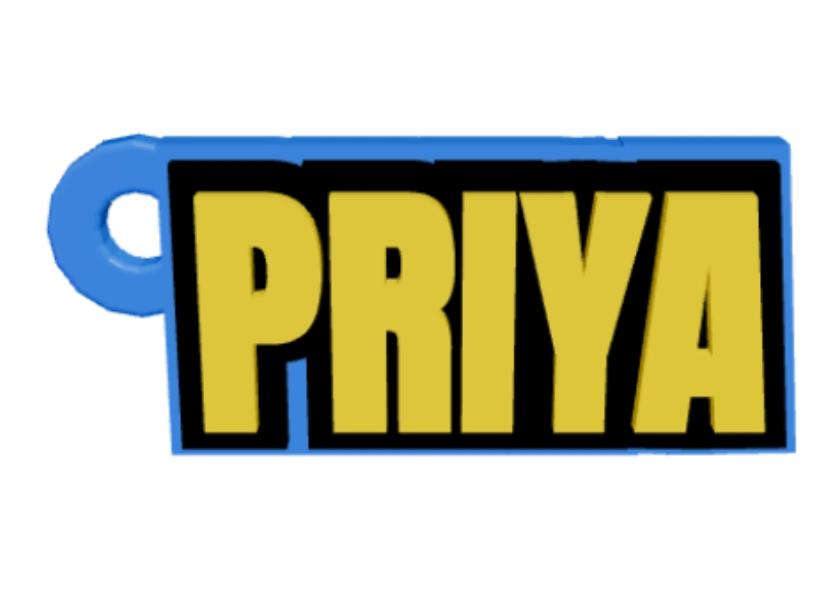
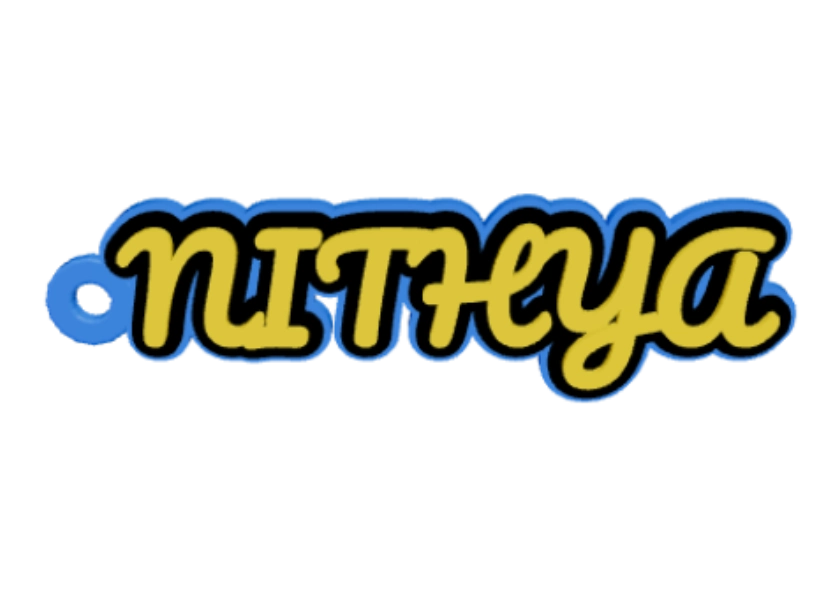
fix(home): vary reels and animate word art

diff --git a/kiosk/public/js/classic-reel-renderer.js b/kiosk/public/js/classic-reel-renderer.js
@@ -10,11 +10,32 @@ const PRODUCT_CONFIGS = Object.freeze({
         font: 'Anton',
         fontFile: 'Fonts/Anton-Regular.ttf',
         layers: '3L',
-        params: { ringPosition: 'left', ring: { anchor: 'top' }, showFDMTexture: false },
+        params: { ringPosition: 'left', ring: { anchor: 'center' }, showFDMTexture: false },
         variants: [
-            { id: 'orange-white-black', label: 'Orange, White and Black', colors: { base: '#FF9933', font: '#FFFFFF', outline: '#000000', line2: '#FFD700' } },
-            { id: 'purple-white-gold', label: 'Purple, White and Gold', colors: { base: '#7B2FFF', font: '#FFFFFF', outline: '#FFD700', line2: '#FFD700' } },
-            { id: 'blue-gold-black', label: 'Blue, Gold and Black', colors: { base: '#3A88FE', font: '#FFD700', outline: '#000000', line2: '#FFFFFF' } },
+            {
+                id: 'orange-white-black',
+                label: 'PRIYA · Anton · Orange, White and Black',
+                text: 'PRIYA',
+                font: 'Anton',
+                fontFile: 'Fonts/Anton-Regular.ttf',
+                colors: { base: '#FF9933', font: '#FFFFFF', outline: '#000000', line2: '#FFD700' },
+            },
+            {
+                id: 'purple-white-gold',
+                label: 'ARUN · Bagel Fat One · Purple, White and Gold',
+                text: 'ARUN',
+                font: 'Bagel Fat One',
+                fontFile: 'Fonts/BagelFatOne-Regular.ttf',
+                colors: { base: '#7B2FFF', font: '#FFFFFF', outline: '#FFD700', line2: '#FFD700' },
+            },
+            {
+                id: 'blue-gold-black',
+                label: 'NITHYA · Pacifico · Blue, Gold and Black',
+                text: 'NITHYA',
+                font: 'Pacifico',
+                fontFile: 'Fonts/Pacifico-Regular.ttf',
+                colors: { base: '#3A88FE', font: '#FFD700', outline: '#000000', line2: '#FFFFFF' },
+            },
         ],
     },
     wordart: {
@@ -145,14 +166,27 @@ function publish(payload) {
 
 async function buildVariant(viewer, variant) {
     statusEl.textContent = `Rendering ${variant.label}…`;
+    const text = variant.text || product.text;
+    const font = variant.font || product.font;
+    const fontFile = variant.fontFile || product.fontFile;
+    const variantParams = variant.params || {};
+    const params = {
+        ...product.params,
+        ...variantParams,
+        ring: {
+            ...(product.params.ring || {}),
+            ...(variantParams.ring || {}),
+        },
+    };
+    const wordartFonts = variant.wordartFonts || product.wordartFonts;
     await viewer.update(
-        product.text,
-        product.fontFile,
+        text,
+        fontFile,
         variant.colors,
         product.layers,
-        product.params,
+        params,
         requestedProduct,
-        product.wordartFonts
+        wordartFonts
     );
     viewer.setAutoRotate(false);
     const shadowWasVisible = Boolean(viewer.shadowPlane && viewer.shadowPlane.visible);
@@ -201,6 +235,11 @@ async function buildVariant(viewer, variant) {
     return {
         id: variant.id,
         label: variant.label,
+        text,
+        font,
+        fontFile,
+        ringPosition: params.ringPosition,
+        ringAnchor: params.ring?.anchor || 'top',
         colors: variant.colors,
         dimensions,
         spriteWebp: sprite.toDataURL('image/webp', 0.96),
@@ -229,15 +268,17 @@ async function run() {
     statusEl.textContent =
         `Complete · ${dims.width.toFixed(1)} × ${dims.height.toFixed(1)} × ${dims.depth.toFixed(1)} mm`
         + ` · ${ANGLES.length} source angles × ${variants.length} colours`;
+    const firstVariant = variants[0];
     publish({
         version: 2,
         productType: requestedProduct,
         label: product.label,
-        text: product.text,
-        font: product.font,
-        fontFile: product.fontFile,
+        text: firstVariant.text,
+        font: firstVariant.font,
+        fontFile: firstVariant.fontFile,
         layers: product.layers,
-        ringPosition: product.params.ringPosition,
+        ringPosition: firstVariant.ringPosition,
+        ringAnchor: firstVariant.ringAnchor,
         showFDMTexture: false,
         width: WIDTH,
         height: HEIGHT,

diff --git a/kiosk/public/js/classic-reel-pilot.js b/kiosk/public/js/classic-reel-pilot.js
@@ -13,13 +13,12 @@
     const saveData = Boolean(navigator.connection && navigator.connection.saveData);
     const canAnimate = !reduceMotion && !saveData && 'IntersectionObserver' in window;
     const coordinator = window.__kootzyReelCoordinator || (window.__kootzyReelCoordinator = {
-        activeStop: null,
+        activeStops: new Set(),
         claim(stop) {
-            if (this.activeStop && this.activeStop !== stop) this.activeStop();
-            this.activeStop = stop;
+            this.activeStops.add(stop);
         },
         release(stop) {
-            if (this.activeStop === stop) this.activeStop = null;
+            this.activeStops.delete(stop);
         },
     });
 
@@ -42,7 +41,7 @@
         const stage = document.createElement('div');
         stage.className = 'classic-reel-stage';
         stage.setAttribute('role', 'img');
-        stage.setAttribute('aria-label', 'Exact 3D Classic Keychain preview changing through available filament colours');
+        stage.setAttribute('aria-label', 'Exact 3D Classic Keychain preview changing through names, fonts and filament colours');
 
         const picture = document.createElement('picture');
         picture.className = 'classic-reel-poster';
@@ -86,7 +85,7 @@
 
         let running = false;
         let cycleTimer = 0;
-        let variantIndex = 0;
+        let variantIndex = Math.floor(Math.random() * manifest.variants.length);
         let activeLayer = -1;
         let generation = 0;
 

diff --git a/kiosk/public/js/catalog-reel-gate.js b/kiosk/public/js/catalog-reel-gate.js
@@ -8,13 +8,12 @@
     const saveData = Boolean(navigator.connection && navigator.connection.saveData);
     const canAnimate = !reduceMotion && !saveData && 'IntersectionObserver' in window;
     const coordinator = window.__kootzyReelCoordinator || (window.__kootzyReelCoordinator = {
-        activeStop: null,
+        activeStops: new Set(),
         claim(stop) {
-            if (this.activeStop && this.activeStop !== stop) this.activeStop();
-            this.activeStop = stop;
+            this.activeStops.add(stop);
         },
         release(stop) {
-            if (this.activeStop === stop) this.activeStop = null;
+            this.activeStops.delete(stop);
         },
     });
 
@@ -82,7 +81,7 @@
         let running = false;
         let generation = 0;
         let timer = 0;
-        let variantIndex = 0;
+        let variantIndex = Math.floor(Math.random() * manifest.variants.length);
         let activeLayer = -1;
 
         function stop() {

diff --git a/kiosk/public/index.html b/kiosk/public/index.html
@@ -479,8 +479,8 @@
     <script src="https://cdn.jsdelivr.net/npm/opentype.js@1.3.4/dist/opentype.min.js"></script>
     <!-- Animated SVG product-card previews (real glyphs, auto-cycling colors) -->
     <script src="js/card-previews.js?v=cpv4"></script>
-    <script src="js/classic-reel-pilot.js?v=pilot3"></script>
-    <script src="js/catalog-reel-gate.js?v=gate2"></script>
+    <script src="js/classic-reel-pilot.js?v=pilot4"></script>
+    <script src="js/catalog-reel-gate.js?v=gate3"></script>
     <script src="https://cdn.jsdelivr.net/npm/clipper-lib@6.4.2/clipper.min.js"></script>
     <script type="importmap">
     {
